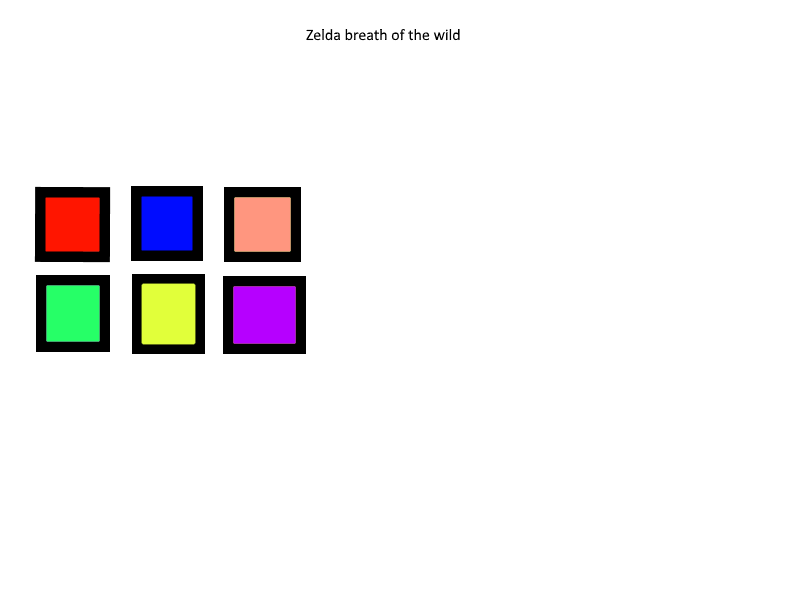
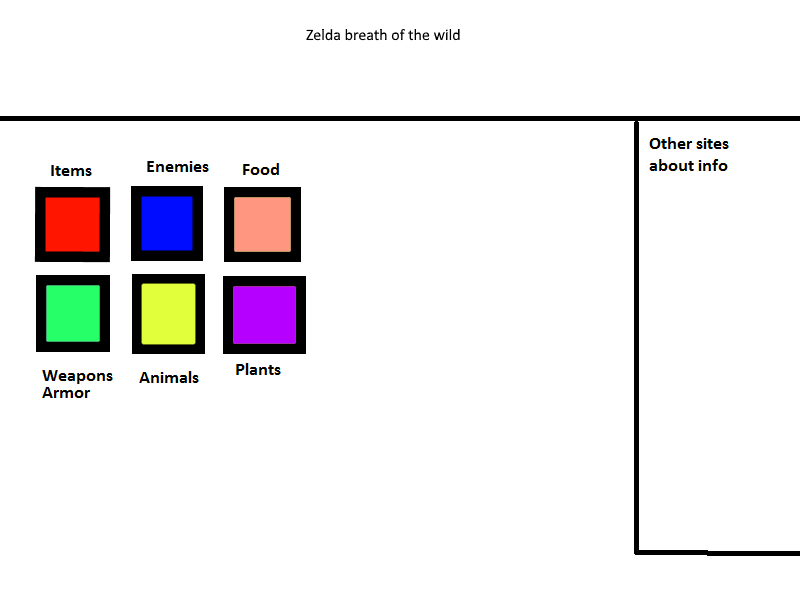
Home
-Started Home
-Tweaked the system of pages

diff --git a/Style/HomeStyle.css b/Style/HomeStyle.css
@@ -1,6 +1,6 @@
 main
 {
-    width: 1200px;
+    width: 1300px;
 }
 
 .centered
@@ -11,8 +11,7 @@ main
 
 .IndexPage
 {
-    margin-top: 100px;
-    width: 1200px;
+    margin-top: 50px;
     height: auto;
 }
 
@@ -22,13 +21,36 @@ main
     border-radius: 15px;
     width: 200px;
     height: 300px;
+    margin: 6px;
+    
 }
 
 .ImageBoxes
 {
-    border-bottom: 2px solid blue;
     border-top-left-radius: 12px;
     border-top-right-radius: 12px;
     width: 200px;
     height: 200px;
+}
+
+.ItemBoxes:hover
+{
+    border: 5px solid aqua;
+    margin: 3px;
+}
+
+.catBox
+{
+    border: 3px solid red;
+    width: 465px;
+    height: 305px;
+}
+
+.categories
+{
+    border: 2.5px solid red;
+    width: 100px;
+    height: 100px;
+    margin: 25px;
+    float: left;
 }

diff --git a/Modules/Home.php b/Modules/Home.php
@@ -1,58 +1,14 @@
-<?php
-
-$sth = $pdo->prepare('select * from items');
-$sth->execute();
-//$row = $sth->fetch();
-$i = 0;
-echo "<table class='centered'>";
-    echo "<tr>";
-    while ($row = $sth->fetch())
-    {
-
-        
-        
-        
-        echo "<td>";
-            echo "<div class='ItemBoxes'>";
-                echo "<img src='Images/Items/" . ImageCheck($row) . ".png' class='ImageBoxes'>";
-                echo "Name: " . $row ['Name'] . "<br />";
-                echo "Heals: " . $row ['Healing'] . " hearts";
-            echo "</div>";
-        echo "</td>";
-        $i++;
-        
-        if($i == 5)
-        {
-            $i = 0;
-            echo "</tr>";
-            echo "<tr>";
-        }
-    }
-echo "</table>";
-
-//needs an extra counter for every td it puts into an tr becouse of excess and last data not reached
-
-/*
-newRow:
-    while ($sth->fetch())
-    {
-    
-    echo "<tr>";
-        
-        for($i=0; $i <= 4; $i++)
-        {
-        $row = $sth->fetch();
-        echo "<td>";
-            echo "<div class='ItemBoxes'>";
-                echo "<img src='Images/Items/" . ImageCheck($row) . ".png' class='ImageBoxes'>";
-                echo $row ['Name'];
-            echo "</div>";
-        echo "</td>";
-        }
-    
-    echo "</tr>";
-    goto newRow;
-    }
-*/
-
-?>
+<div class="catBox">
+    <div class="categories">
+    </div>
+    <div class="categories">
+    </div>
+    <div class="categories">
+    </div>
+    <div class="categories">
+    </div>
+    <div class="categories">
+    </div>
+    <div class="categories">
+    </div>
+</div>

diff --git a/index.php b/index.php
@@ -18,11 +18,12 @@ $pdo = ConnectDB();
             <?php
             
                 require('Modules/Menu.php');
+                echo "<hr />";
             
             ?>
         </div>
-        <main class="centered">
-            <div class="IndexPage centered">
+        <div class="IndexPage">
+            <main class="centered">
                 <?php
 
                 if(!empty($_GET["PageNr"]))
@@ -36,18 +37,21 @@ $pdo = ConnectDB();
 
                 switch($pageNr)
                 {
-                    case 1: require('./Modules/Add.php');
-                            break;
-                    case 2: require('./Modules/Edit.php');
-                            break;
-                    case 3: require('./Modules/Delete.php');
-                            break;
                     default: require('./Modules/Home.php');
                             break;
+                    case 1: require('./Modules/Items.php');
+                            break;
+                    case 2: require('./Modules/Add.php');
+                            break;
+                    case 3: require('./Modules/Edit.php');
+                            break;
+                    case 4: require('./Modules/Delete.php');
+                            break;
+                    
                 }
 
                 ?>
-            </div>
-        </main>
+            </main>
+        </div>
     </body>
 </html>

diff --git a/Modules/Menu.php b/Modules/Menu.php
@@ -1,21 +1,21 @@
 <ul>
-    <li><a href="#">Items</a></li>
-    <li><a href="#">Enemies</a></li>
+    <li><a href="index.php?PageNr=0&action=Home">Home</a></li>
+    <li><a href="index.php?PageNr=1&action=Items">Items</a></li>
     <li><a href="index.php">Edit Database</a>
         <ul>
-            <li><a href="index.php?PageNr=1&action=add">Add</a>
+            <li><a href="index.php?PageNr=2&action=add">Add</a>
                 <ul>
                     <li><a href="index.php?PageNr=1&action=enemies">Enemies</a></li>
                     <li><a href='index.php?PageNr=1&action=items'>Items</a></li>
                 </ul>
             </li>
-            <li><a href="index.php?PageNr=2&action=edit">Edit</a>
+            <li><a href="index.php?PageNr=3&action=edit">Edit</a>
                 <ul>
                     <li><a href="index.php?PageNr=2&action=enemies">Enemies</a></li>
                     <li><a href='index.php?PageNr=2&action=items'>Items</a></li>
                 </ul>
             </li>
-            <li><a href="index.php?PageNr=3&action=delete">Delete</a>
+            <li><a href="index.php?PageNr=4&action=delete">Delete</a>
                 <ul>
                     <li><a href="index.php?PageNr=3&action=enemies">Enemies</a></li>
                     <li><a href='index.php?PageNr=3&action=items'>Items</a></li>

diff --git a/Modules/Items.php b/Modules/Items.php
@@ -1,0 +1,55 @@
+<?php
+
+$sth = $pdo->prepare('select * from items');
+$sth->execute();
+//$row = $sth->fetch();
+$i = 0;
+echo "<table class='centered'>";
+    echo "<tr>";
+    while ($row = $sth->fetch())
+    {
+        echo "<td>";
+            echo "<div class='ItemBoxes'>";
+                echo "<img src='Images/Items/" . ImageCheck($row) . ".png' class='ImageBoxes'>";
+                echo "<hr />";
+                echo "Name: " . $row ['Name'] . "<br />";
+                echo HeartsCheck($row);
+            echo "</div>";
+        echo "</td>";
+        $i++;
+        
+        if($i == 5)
+        {
+            $i = 0;
+            echo "</tr>";
+            echo "<tr>";
+        }
+    }
+echo "</table>";
+
+//needs an extra counter for every td it puts into an tr becouse of excess and last data not reached
+
+/*
+newRow:
+    while ($sth->fetch())
+    {
+    
+    echo "<tr>";
+        
+        for($i=0; $i <= 4; $i++)
+        {
+        $row = $sth->fetch();
+        echo "<td>";
+            echo "<div class='ItemBoxes'>";
+                echo "<img src='Images/Items/" . ImageCheck($row) . ".png' class='ImageBoxes'>";
+                echo $row ['Name'];
+            echo "</div>";
+        echo "</td>";
+        }
+    
+    echo "</tr>";
+    goto newRow;
+    }
+*/
+
+?>

diff --git a/Modules/Functions.php b/Modules/Functions.php
@@ -33,4 +33,26 @@ function ImageCheck($row)
     }
 }
 
+/*Translates the amount of hearts to text*/
+//maybe add something to say 1,25 hearts instead of 1,25 heart
+function HeartsCheck($row)
+{
+    if($row ['Healing'] !== null)
+    {
+        if($row ['Healing'] > 1)
+        {
+            return "Heals: " . $row ['Healing'] . " hearts";
+        }
+        else
+        {
+            return "Heals: " . $row ['Healing'] . " heart";
+        }
+        
+    }
+    else
+    {
+        return null;
+    }
+}
+
 ?>
